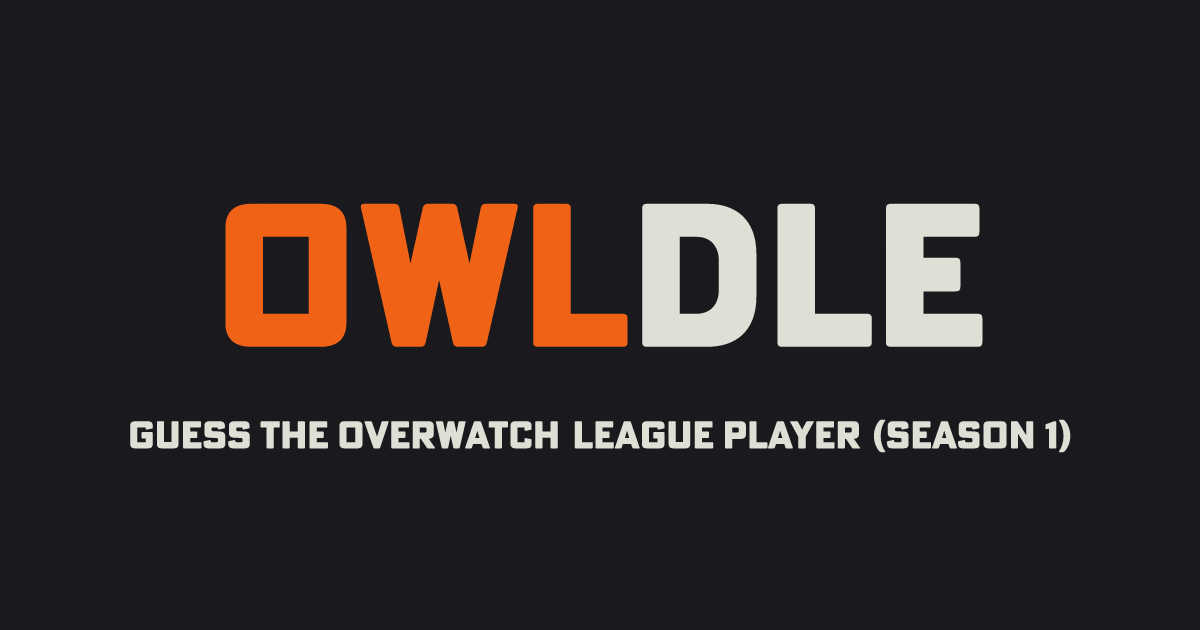
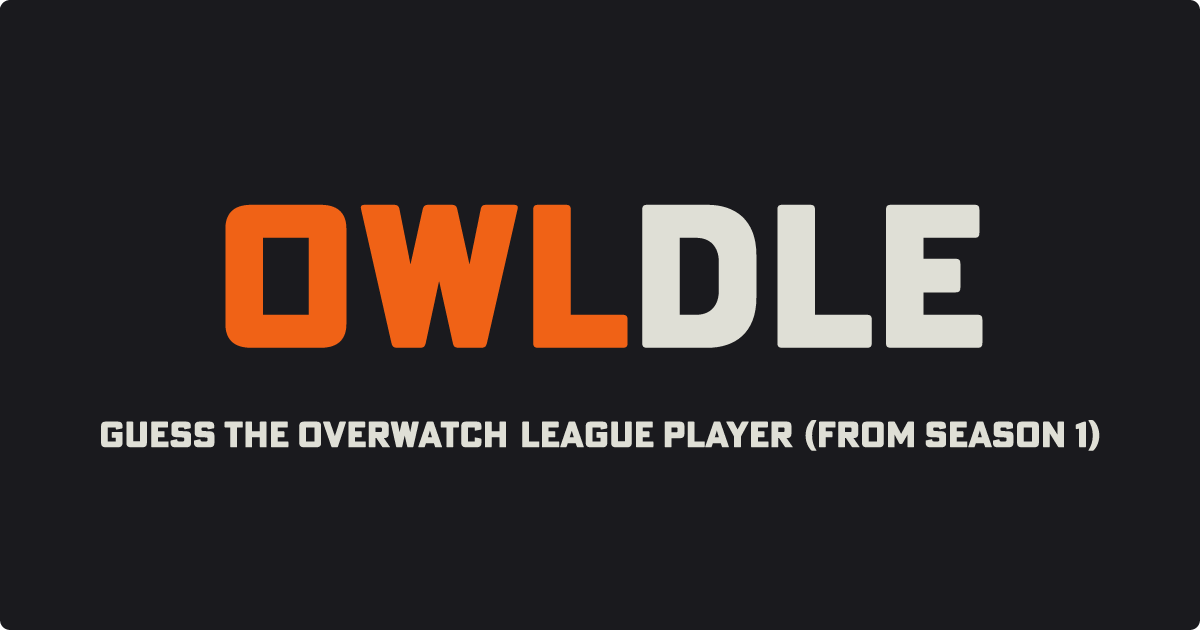
chore: update open-graph site image

diff --git a/app/api/og/disabled.route.tsx b/app/api/og/disabled.route.tsx
@@ -11,7 +11,7 @@ export async function GET() {
 			style={{
 				height: '100%',
 				// Full-size: 200
-				fontSize: 145,
+				fontSize: 200,
 				color: '#f06216',
 				background: '#1a1a1e',
 				width: '100%',
@@ -25,12 +25,13 @@ export async function GET() {
 				<div style={{ display: 'flex' }}>OWL</div>
 				<div style={{ display: 'flex', color: '#dfdfd6' }}>DLE</div>
 			</div>
-			<div style={{ display: 'flex', fontSize: 30, marginTop: 20, color: '#dfdfd6' }}>Guess the overwatch league player (from season 1)</div>
+			{/* Default font size:  */}
+			<div style={{ display: 'flex', fontSize: 36, marginTop: 20, color: '#dfdfd6' }}>Guess the overwatch league player (from season 1)</div>
 		</div>,
 		{
 			width: 1200,
 			// Full size: 630
-			height: 350,
+			height: 630,
 			fonts: [
 				{
 					name: 'OWLFontBold',